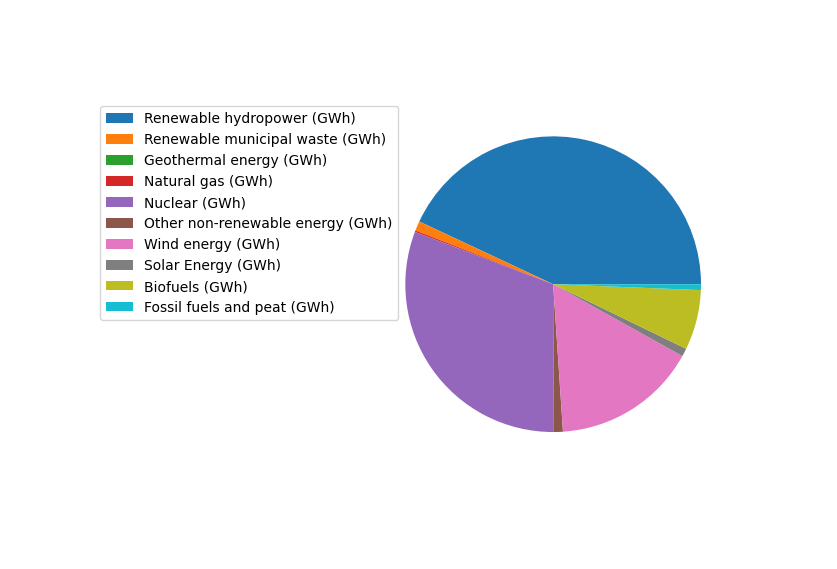
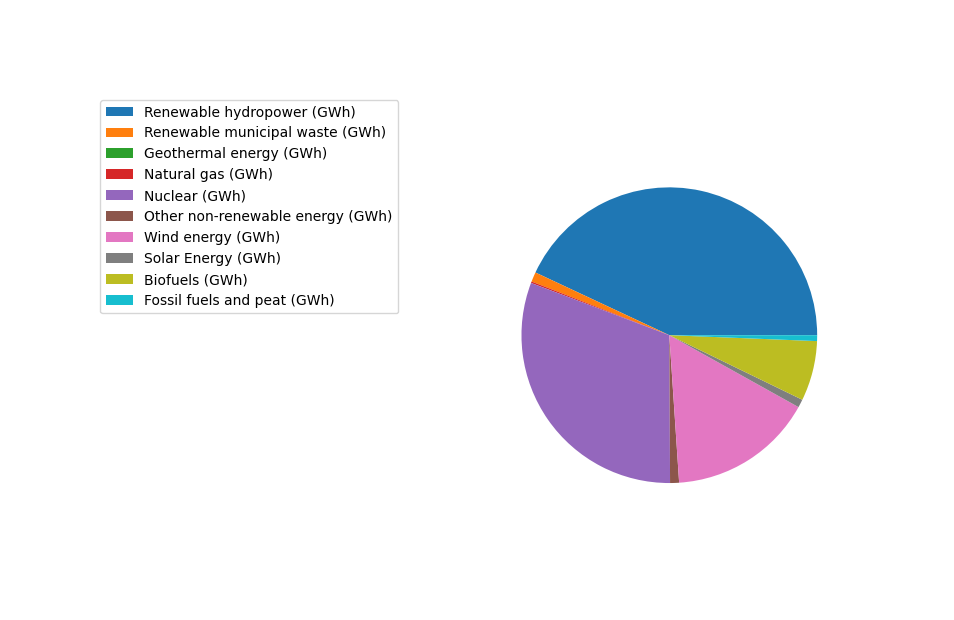
Testing done to generate dynamic pie charts for different countries

Changed region(s): [[0.0932, 0.1494, 0.4659, 0.5677], [0.4659, 0.239, 0.8698, 0.8067]]

diff --git a/src/scripts/mapInteractions.ts b/src/scripts/mapInteractions.ts
@@ -2,6 +2,8 @@ import { get } from 'svelte/store';
 import { countryStore, tooltipToggler, sidepanelToggler, countryContentStore, xStore, yStore} from '../store/mapStore';
 import { zoomToCountry } from './zoom';
 import { viewBox, svgElement } from '../components/+map.svelte';
+import { updated } from '$app/stores';
+import { imageStore } from '../store/mapStore';
 
 export let tooltipContent: string = '';
 export let countries: Set<string> = new Set<string>();
@@ -95,6 +97,10 @@ export function initializeCountryMap() {
     })
 }
 
+function updateImage(): void{
+    imageStore.set("http://localhost:5173/country_graph.png#" + new Date().getTime());
+}
+
 export function setupMapInteractions(svgElement : SVGSVGElement) {
     svgElement.addEventListener('mouseover', handleMouseOver);
     svgElement.addEventListener('mousemove', handleMouseMove);
@@ -135,7 +141,8 @@ export function setupMapInteractions(svgElement : SVGSVGElement) {
                 tooltipToggler.set(!get(tooltipToggler));
                 console.log(closestGroup.id)
                 const response = await fetch(`http://127.0.0.1:5000/${closestGroup.id}`);
-                const image = await fetch(`http://127.0.0.1:5000/chart/${closestGroup.id}`)
+                const image = await fetch(`http://127.0.0.1:5000/chart/${closestGroup.id}`);
+                updateImage();
                 current_selected = await response.text();
                 console.log(current_selected);
                 toggleSidePanel(closestGroup.id ,current_selected);

diff --git a/src/components/+slidePanel.svelte b/src/components/+slidePanel.svelte
@@ -1,11 +1,16 @@
-<script lang="ts">
-    import { countryContentStore } from '../store/mapStore';
+<script lang="ts" context="module">
+    import { countryContentStore, imageStore } from '../store/mapStore';
 
     let countryContent: string = '';
-
+    let src: string;
+    
     countryContentStore.subscribe(value => {
         countryContent = value;
     });
+
+    imageStore.subscribe(value => {
+        src = value;
+    })
     //console.log(countryContent);
 </script>
 
@@ -14,5 +19,5 @@
     <aside id="slide-panel" class="flex max-h-full fixed h-full items-center max w-1/5 right-0 top-0 justify-between px-6 bg-white text-gray-700 border-b border-gray-200 z-10">
       {@html countryContent}
     </aside>
-    <img src="/country_graph.png" alt="Country" width="500" height="400">
+    <img src={src} alt="Country" width="500" height="400">
 </div>

diff --git a/src/store/mapStore.ts b/src/store/mapStore.ts
@@ -14,3 +14,4 @@ export let viewBoxStore: Writable<ViewBox> = writable({
     width: 2000,
     height: 857
 });
+export let imageStore = writable("/country_graph.png");

diff --git a/src/routes/api/query_data.py b/src/routes/api/query_data.py
@@ -15,7 +15,7 @@ CORS(app)
 def query_data(country): # Returns a dataframe containing the country matching the input string and the data of that country.
                   # Will return an empty dataframe (but containing its columns) if the input does not match a country.
     #country = request.args.get('country',type=str)
-    dataset = pd.read_csv('python/power_data.csv')
+    dataset = pd.read_csv('python/clumped_data.csv')
     #values = dataset[dataset['Country'].str.contains(fr'{country}', case=False)].reset_index().to_json(orient='records')
     formatted = (dataset[dataset['Country'].str.match(fr'{country}', case=False)].reset_index()).transpose()
     dropped = formatted.iloc[1: , :]
@@ -27,9 +27,12 @@ def get_plot(country):
     dataset = pd.read_csv('python/clumped_data.csv')
     energy_doc = (dataset[dataset['Country'].str.match(fr'{country}', case=False)])
     energy_doc = energy_doc.drop(['Code (alpha-3)', 'Country', 'Renewable energy production (%)'], axis=1)
-    plt.pie(energy_doc.T.iloc[:,0])
-    plt.legend(labels= energy_doc.columns, loc='upper right', bbox_to_anchor=(0.1,1))
-    plt.savefig('static/country_graph.png', bbox_inches='tight', pad_inches=1)
+    labels = energy_doc.columns.tolist()
+    values = energy_doc.to_numpy().flatten()
+    fig,ax = plt.subplots()
+    ax.pie(values)
+    fig.legend(labels=labels, loc='upper right', bbox_to_anchor=(0.1,1))
+    fig.savefig('static/country_graph.png', bbox_inches='tight', pad_inches=1)
     return country
     
 
